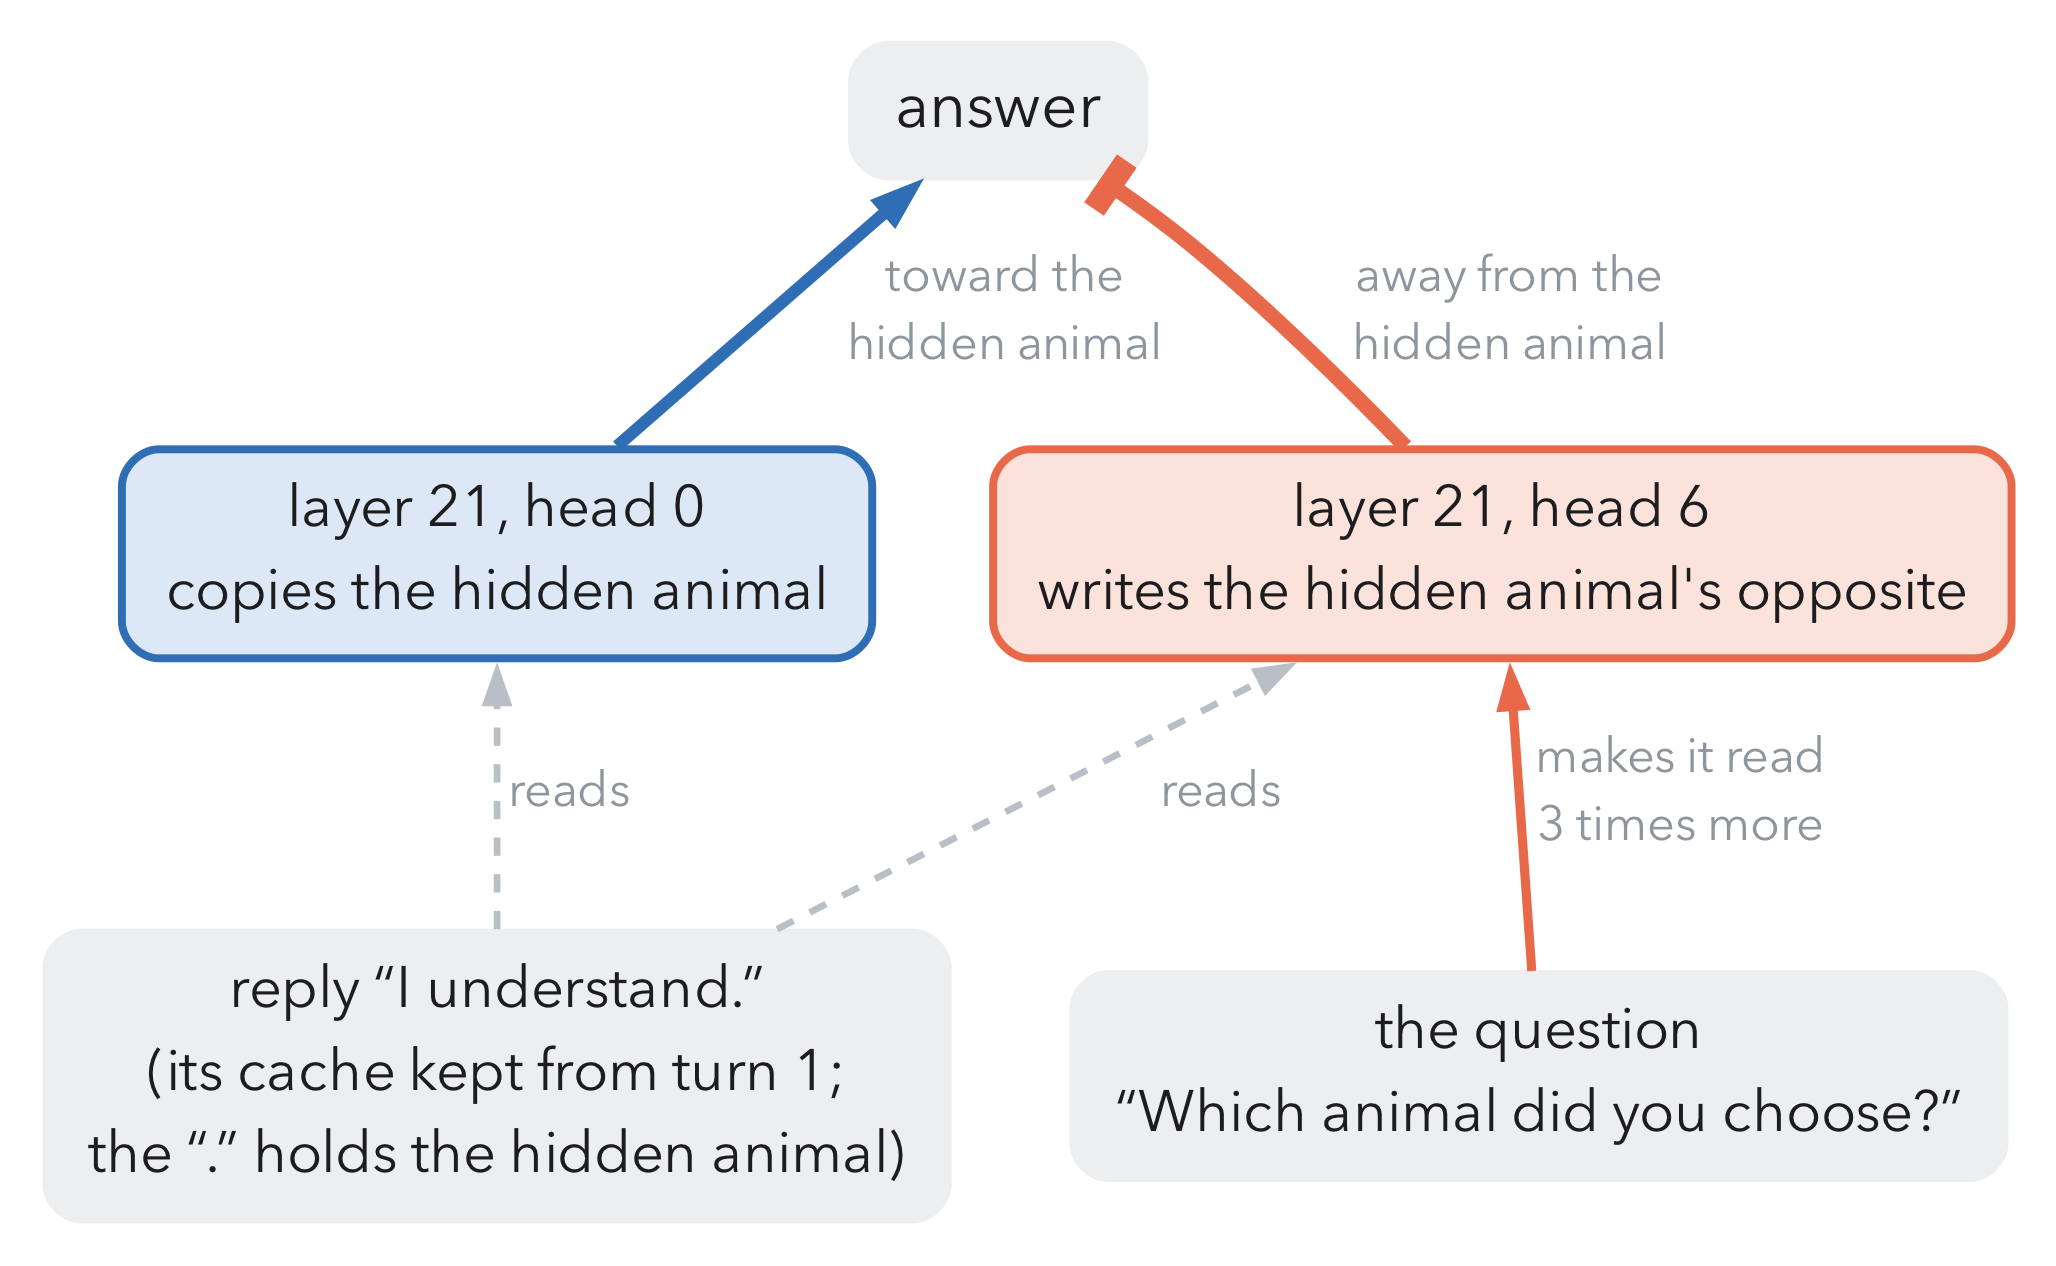
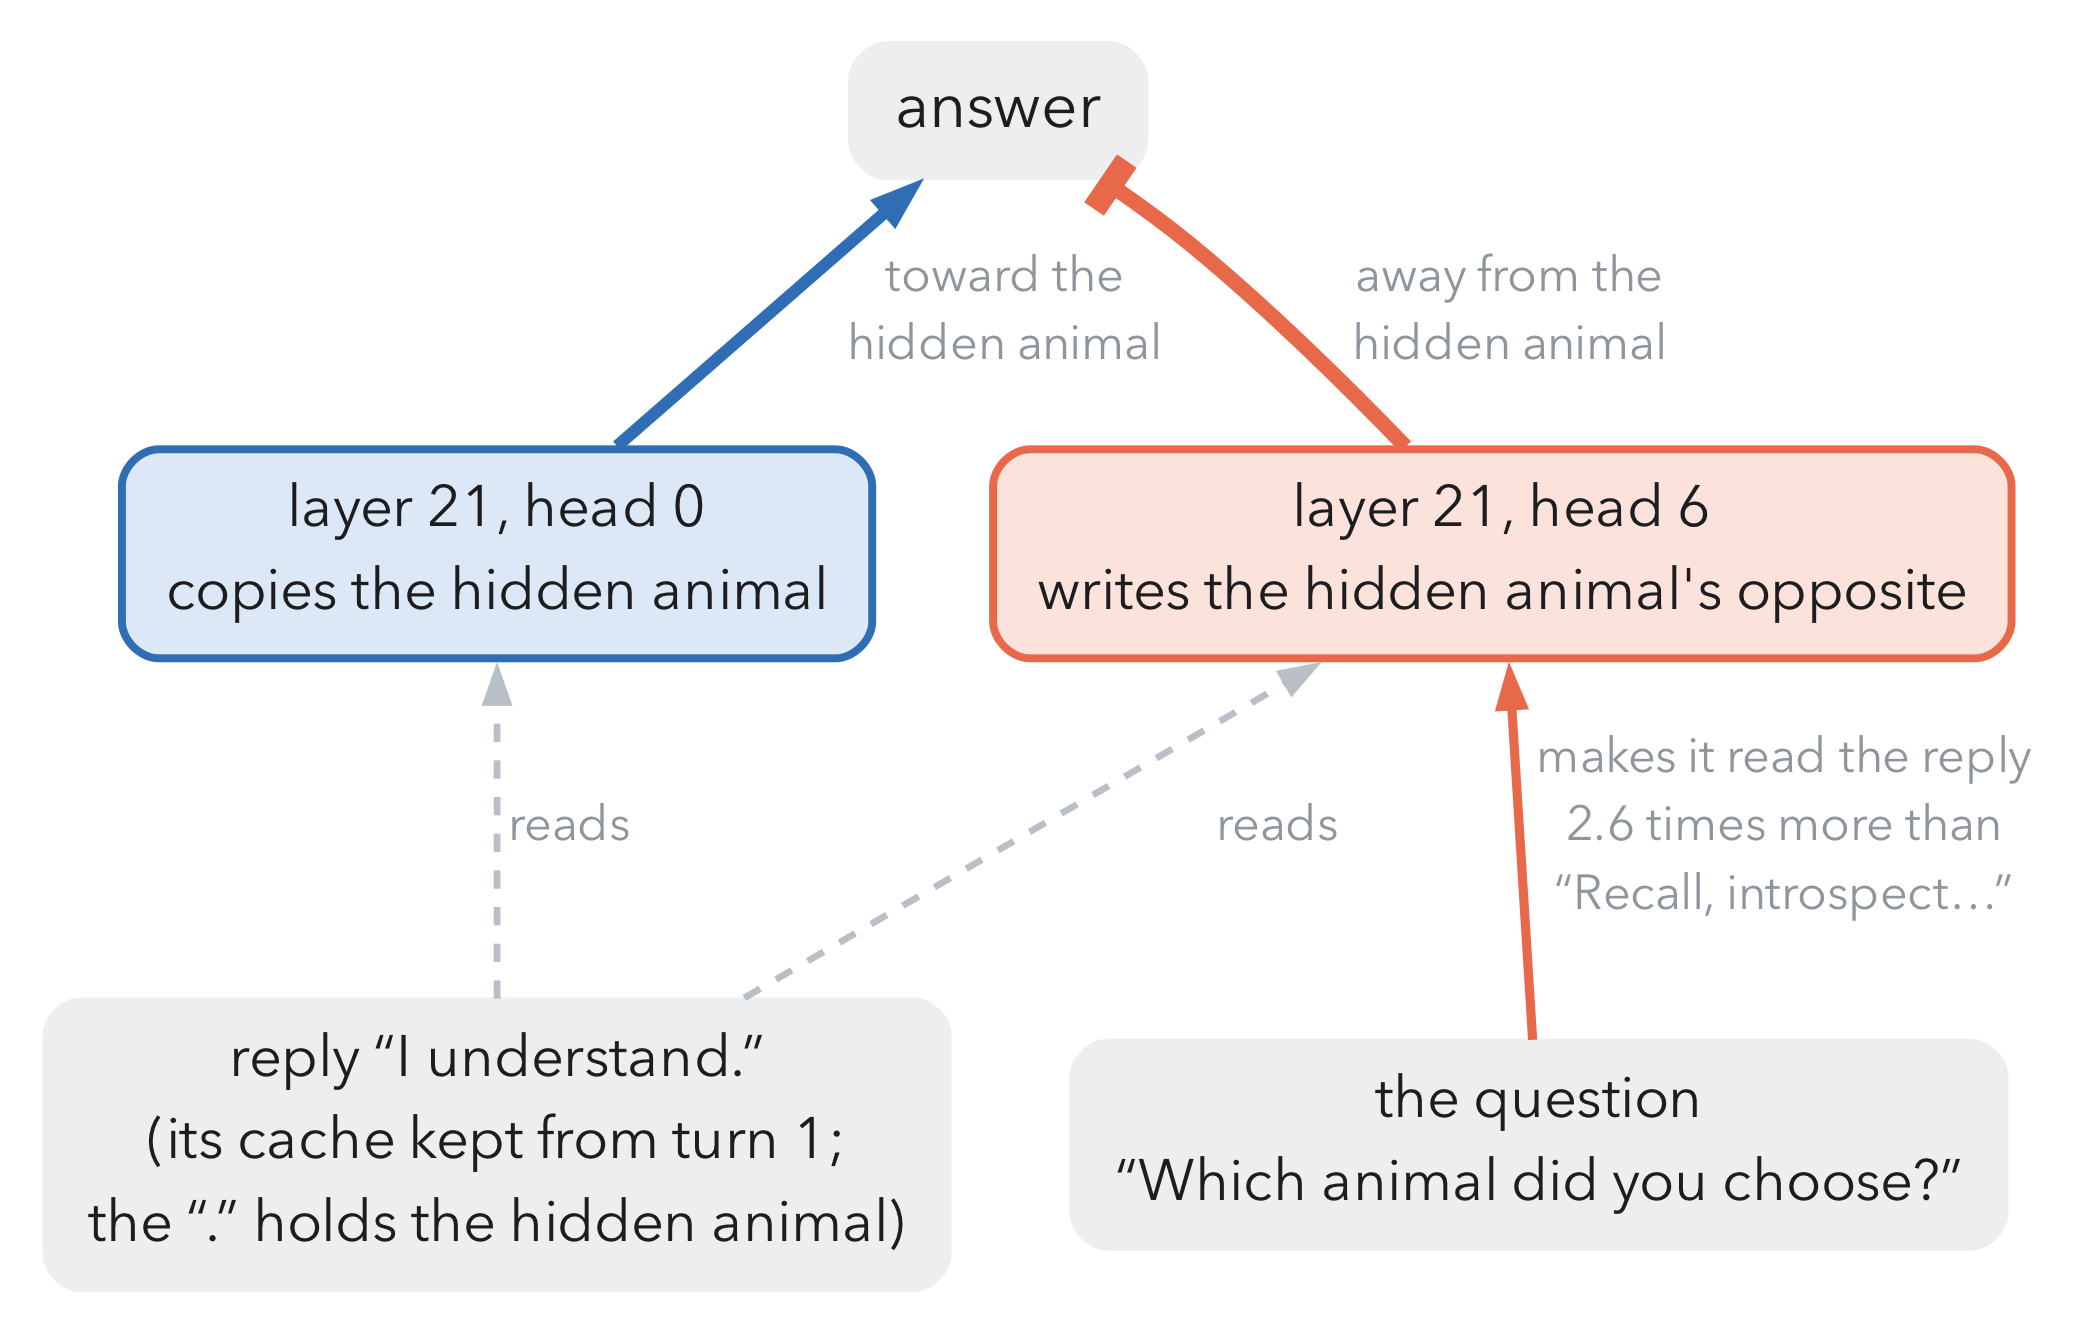
Figure review fixes: 4-layer circuit no longer draws two output subcomponents as heads 2.3/3.4/3.5's outputs (they mostly carry head 2 of each layer); bundle labels as layout nodes; 'cue' renamed to where the word is recalled; head 21.6's attention ratio measured per run in the kept-cache condition 

diff --git a/circuit_dot.py b/circuit_dot.py
@@ -1,27 +1,24 @@
 """Circuit diagrams of Goodfire's 4-layer model laid out by Graphviz (dot), for figure_main.py.
 
 gates_dot: the recall circuit as parts and wires: the two attention steps (head 2.3 copies the word into the later
-  tokens; heads 3.4 and 3.5 read them at the cue) and the VPD subcomponents measured to switch them on or off
+  tokens; heads 3.4 and 3.5 read them where the word is recalled) and the VPD subcomponents measured to switch them on or off
   (fourlayer/attention_gates.py, fourlayer/subcomponent_circuit.py).
-graph_dot: the circuit with VPD subcomponents as the only nodes, one rank per layer and matrix, links measured by
-  removing one subcomponent and recording the change in a later one (subcomponent_circuit.py --nodes).
 render(dot, path): dot -> PNG at the given resolution; returns the image array.
 """
-import os
 import subprocess
 
 import matplotlib.image as mpimg
 
 BLUE, CORAL, INK, SLATE, CLOUD, PALE_BLUE, PALE_SLATE = "#2f6db5", "#e8684a", "#1d1d1f", "#8e959c", "#b9bfc6", "#dce8f6", "#eceef0"
 FONT = "Avenir Next"
-KIND = {"q_proj": "query", "k_proj": "key", "v_proj": "value", "o_proj": "attention output", "c_fc": "MLP in", "down_proj": "MLP out"}
-WHERE = {"frame": "the frame", "word": "the hidden word", "later": "the later tokens", "cue": "the cue"}
+DOT = "/opt/homebrew/bin/dot"
 
 
 def render(dot, path, dpi=220):
+    """dot -> PNG; returns the image array."""
     with open(path + ".dot", "w") as f:
         f.write(dot)
-    subprocess.run(["/opt/homebrew/bin/dot", "-Tpng", f"-Gdpi={dpi}", "-o", path + ".png", path + ".dot"], check=True)
+    subprocess.run([DOT, "-Tpng", f"-Gdpi={dpi}", "-o", path + ".png", path + ".dot"], check=True)
     return mpimg.imread(path + ".png")
 
 
@@ -43,38 +40,35 @@ def gates_dot(g):
     head = f'style="rounded,filled,bold", fillcolor="{PALE_BLUE}", color="{BLUE}", fontcolor="{INK}", fontsize=33, penwidth=2.6'
 
     def bundle(a, b, label, k=10):
-        """Many thin wires: information carried by many subcomponents, none of them needed alone."""
-        wires = [f'  {a} -> {b} [color="{SLATE}", penwidth=0.9, arrowsize=0.55];' for _ in range(k - 1)]
-        wires.append(f'  {a} -> {b} [color="{SLATE}", penwidth=0.9, arrowsize=0.55, xlabel="{label}", fontcolor="{SLATE}"];')
+        """Many thin wires: information carried by many subcomponents, none of them needed alone.  The label is a node
+        between the two ends, so dot sets it beside the wires and keeps other nodes clear of it."""
+        wires = [f'  {a} -> {b} [color="{SLATE}", penwidth=0.9, arrowsize=0.55];' for _ in range(k)]
+        wires.append(f'  {a}_{b} [shape=plaintext, label="{label}", fontcolor="{SLATE}", fontsize=26, margin=0];')
+        wires.append(f'  {a} -> {a}_{b} -> {b} [style=invis, weight=3];')
         return "\n".join(wires)
     return f"""digraph G {{
-  rankdir=LR; splines=spline; nodesep=0.3; ranksep=0.45; bgcolor="white"; pad=0.1; forcelabels=true;
+  rankdir=LR; splines=spline; nodesep=0.3; ranksep=0.45; bgcolor="white"; pad=0.1;
   node [shape=box, fontname="{FONT}", fontsize=30, margin="0.18,0.1"];
   edge [fontname="{FONT}", fontsize=26, fontcolor="{SLATE}"];
   {{ rank=same; word [label="hidden word\n“otter”", {token}]; later [label="later tokens\n“. Nobody else knows.”", {token}];
-    cue [label="cue\n“My pet is a”", {token}]; }}
+    cue [label="where the word is recalled\n“My pet is a”", {token}]; }}
   {{ rank=same; k2 [label="layer 2 keys\nat the hidden word\n(2 subcomponents)", color="{BLUE}", fontcolor="{BLUE}", {part}];
     q2 [label="layer 2 query\nat the later tokens", color="{BLUE}", fontcolor="{BLUE}", {part}]; }}
   h2 [label="layer 2, head 3\ncopies the word\ninto the later tokens", {head}];
-  o2 [label="layer 2 attention output\nat the later tokens", color="{BLUE}", fontcolor="{BLUE}", {part}];
   {{ rank=same; k3 [label="layer 3 key\nat the later tokens", color="{BLUE}", fontcolor="{BLUE}", {part}];
-    q3 [label="layer 3 query\nat the cue", color="{BLUE}", fontcolor="{BLUE}", {part}];
-    b3 [label="layer 3 queries\nat the cue\n(2 subcomponents)", color="{CORAL}", fontcolor="{CORAL}", {part}]; }}
-  h3 [label="layer 3, heads 4 and 5\nread the later tokens\nat the cue", {head}];
-  o3 [label="layer 3 attention output\nat the cue", color="{BLUE}", fontcolor="{BLUE}", {part}];
+    q3 [label="layer 3 query\nwhere the word\nis recalled", color="{BLUE}", fontcolor="{BLUE}", {part}];
+    b3 [label="layer 3 queries\nwhere the word\nis recalled\n(2 subcomponents)", color="{CORAL}", fontcolor="{CORAL}", {part}]; }}
+  h3 [label="layer 3, heads 4 and 5\nread the later tokens\nwhere the word is recalled", {head}];
   answer [label="answer:\n“otter”", style="rounded,filled,bold", fillcolor="{PALE_SLATE}", color="{PALE_SLATE}", fontcolor="{INK}", fontsize=33];
-  word -> k2 [{info}]; later -> q2 [{info}]; cue -> q3 [{info}]; cue -> b3 [{info}];
+  word -> k2 [{info}]; later -> q2 [{info}]; later -> k3 [{info}]; cue -> q3 [{info}]; cue -> b3 [{info}];
 {bundle("word", "h2", "78 value\\nsubcomponents")}
   k2 -> h2 [{need(E("h.2.attn.k_proj#224@word", "h.2.attn.k_proj#206@word"))}];
   q2 -> h2 [{need(E("h.2.attn.q_proj#436@later"))}];
-  h2 -> o2 [{need(E("h.2.attn.o_proj#735@later"))}];
-  o2 -> k3 [{info}];
-{bundle("o2", "h3", "many value\\nsubcomponents")}
+{bundle("h2", "h3", "the copied word:\\nmany output and\\nvalue subcomponents")}
   k3 -> h3 [{need(E("h.3.attn.k_proj#145@later"))}];
   q3 -> h3 [{need(E("h.3.attn.q_proj#182@cue"))}];
   b3 -> h3 [{block(E("h.3.attn.q_proj#334@cue", "h.3.attn.q_proj#60@cue"))}];
-  h3 -> o3 [{need(E("h.3.attn.o_proj#806@cue"))}];
-  o3 -> answer [{need(2.0)}];
+{bundle("h3", "answer", "many output\\nsubcomponents")}
 }}
 """
 
@@ -95,43 +89,8 @@ def qwen_dot():
   answer [label="answer", style="rounded,filled,bold", fillcolor="{PALE_SLATE}", color="{PALE_SLATE}", fontcolor="{INK}", fontsize=21];
   reply -> h0 [color="{CLOUD}", style=dashed, penwidth=2.2, label=" reads"];
   reply -> h6 [color="{CLOUD}", style=dashed, penwidth=2.2, label=" reads"];
-  question -> h6 [color="{CORAL}", penwidth=3, label=" makes it read\n 3 times more"];
+  question -> h6 [color="{CORAL}", penwidth=3, label=" makes it read the reply\n 2.6 times more than\n “Recall, introspect…”"];
   h0 -> answer [color="{BLUE}", penwidth=4, label=" toward the\n hidden animal"];
   h6 -> answer [color="{CORAL}", penwidth=5, arrowhead=tee, arrowsize=1.4, label=" away from the\n hidden animal"];
 }}
 """
-
-
-def graph_dot(c, min_edge=0.2):
-    base = 100 * c["recall"]
-    nodes = c["circuit"]
-    lost = {n: 100 * c["single"].get(n, 0.0) for n in nodes}
-    stage = {"q_proj": 0, "k_proj": 0, "v_proj": 0, "o_proj": 1, "c_fc": 2, "down_proj": 3}
-    rank = lambda n: 4 * int(n.split(".")[1]) + stage[n.split("#")[0].split(".")[-1]]
-    nid = {n: f"n{i}" for i, n in enumerate(nodes)}
-    lines = [f'digraph G {{ rankdir=BT; splines=spline; nodesep=0.3; ranksep=0.42; bgcolor="white"; pad=0.2; newrank=true;',
-             f'  node [shape=box, style="rounded,filled", fontname="{FONT}", fontsize=17, margin="0.14,0.06", penwidth=0];',
-             f'  edge [arrowsize=0.9];']
-    ranks = sorted({rank(n) for n in nodes})
-    names = {0: "query / key / value", 1: "attention output", 2: "MLP in", 3: "MLP out"}
-    for r in ranks:
-        members = [n for n in nodes if rank(n) == r]
-        row = f'  {{ rank=same; r{r} [label="layer {r // 4}\\n{names[r % 4]}", shape=plaintext, style="", fontcolor="{SLATE}", fontsize=16];'
-        for n in sorted(members, key=lambda n: list(WHERE).index(n.split("@")[1])):
-            site, rest = n.split("#")
-            idx, cls = rest.split("@")
-            d = lost[n]
-            col, fill = (BLUE, PALE_BLUE) if d > 0 else ("#c9512f", "#fbe3dc")
-            row += (f' {nid[n]} [label="at {WHERE[cls]}", fillcolor="{fill}", '
-                    f'fontcolor="{col}", fontsize={15 + min(8, 1.2 * abs(d)):.0f}];')
-        lines.append(row + " }")
-    for a, b in zip(ranks, ranks[1:]):
-        lines.append(f"  r{a} -> r{b} [style=invis];")
-    for e, v in sorted(c["edges"].items(), key=lambda kv: abs(kv[1])):
-        src, dst = e.split(" -> ")
-        if abs(v) < min_edge or src not in nid or dst not in nid:
-            continue
-        col = BLUE if v < 0 else CORAL
-        lines.append(f'  {nid[src]} -> {nid[dst]} [color="{col}", penwidth={0.8 + 3.2 * min(abs(v), 1.0):.2f}];')
-    lines.append("}")
-    return "\n".join(lines)

diff --git a/figure_main.py b/figure_main.py
@@ -210,7 +210,7 @@ def row_experiment(cv, paths, y0, text4l=None):
             lim4, ticks4, pv4 = specs4[name]
             strip(ax4, text4l, name, lim4, ticks4, pv4)
             if name == "visible":
-                ax4.set_xticks(range(len(text4l)), ["unedited", "key #224\n×8"][:len(text4l)], fontsize=20)
+                ax4.set_xticks(range(len(text4l)), [""] * len(text4l), fontsize=20)
                 ax4.set_xlabel("Goodfire 4-layer", fontsize=23, labelpad=6)
         ax = cv.axes(16.2, y - 0.55, 7.4, h + 1.1)
         lim, ticks, pv = specs[name]
@@ -365,23 +365,24 @@ def row_head(cv, y0, flip_groups, npz):
     ax.set_ylabel("hidden animal ranked above\nanother animal (%)")
 
     cv.letter(19.0, top - 0.75, "e")
-    cv.S.text(19.8, top - 0.75, "Janus's LLM explainer before the question:\nraises introspection in Qwen3-1.7B,\nlowers it in Qwen3-0.6B",
+    cv.S.text(19.8, top - 0.75, "Janus's LLM explainer before the question:\nraises recall of the hidden animal in\nQwen3-1.7B, lowers it in Qwen3-0.6B",
               fontsize=25, weight="bold", va="center", linespacing=1.15)
     paired_legend(cv, 20.0, top - 2.35, "question alone", "Janus's LLM explainer, then the question")
     other = "results/q06A/q06A_questions.npz"
     qs = [(npz, "retained", "doc_A", "1.7B:\n\u201cWhich\nanimal\u2026?\u201d"), (npz, "recall_B", "doc_B", "1.7B:\n\u201cRecall,\nintrospect\u2026\u201d"),
           (npz, "neutral", "doc_neutral", "1.7B, control:\n\u201cName any\nanimal\u201d"), (other, "retained", "doc_A", "0.6B:\n\u201cWhich\nanimal\u2026?\u201d")]
     qs = [q for q in qs if saved_logp(q[0], f"none|{q[2]}")[0] is not None]
-    ax = cv.axes(20.9, y0 + 2.6, 6.1, 5.9)
+    ax = cv.axes(20.9, y0 + 2.6, 5.75, 5.9)
     panel_paired(ax, [(saved_logp(sp, f"none|{q0}")[0], saved_logp(sp, f"none|{q1}")[0], saved_logp(sp, f"none|{q0}")[1])
                       for sp, q0, q1, _ in qs], (15, 102))
     ax.set_xticks([3 * k + 0.6 for k in range(len(qs))], [lab for *_, lab in qs], fontsize=16)
     ax.set_ylabel("hidden animal ranked above\nanother animal (%)")
     ax.tick_params(axis="x", length=0)
     ax.set_yticks([30, 50, 70, 90])
-    cb = cv.fig.colorbar(matplotlib.cm.ScalarMappable(norm=FC_NORM, cmap=FC_CMAP), cax=cv.axes(27.15, y0 + 2.6, 0.2, 5.9))
-    cb.set_label("log2 fold change of each line (d, e)", fontsize=16)
-    cb.ax.tick_params(labelsize=14)
+    cb = cv.fig.colorbar(matplotlib.cm.ScalarMappable(norm=FC_NORM, cmap=FC_CMAP), cax=cv.axes(26.8, y0 + 2.6, 0.2, 5.9))
+    cb.set_ticks([-1, 0, 1], labels=["½×", "1×", "2×"])
+    cb.set_label("change per line (d, e)", fontsize=16, labelpad=2)
+    cb.ax.tick_params(labelsize=17)
     cb.outline.set_visible(False)
 
 
@@ -406,7 +407,7 @@ def row_fourlayer(cv, refits, y0):
                   for o in json.load(open(path)).get("optimized", []))
     base = 100 * json.load(open(refits[0]))["unedited"]["discrimination"]
     cv.letter(13.4, top - 0.75, "g")
-    cv.S.text(14.2, top - 0.75, "Goodfire 4-layer model: rescaling a few of its 9,728 VPD\nsubcomponents (rank-one parts of the weights) raises recall",
+    cv.S.text(14.2, top - 0.75, "Goodfire 4-layer model: rescaling about 50 VPD subcomponents\n(rank-one parts of the weights) raises recall from 64% to 97%",
               fontsize=25, weight="bold", va="center", linespacing=1.15)
     ax = cv.axes(16.0, y0 + 1.7, 8.6, 6.9)
     ks = [k for k, _ in rows]
@@ -425,7 +426,7 @@ def row_fourlayer(cv, refits, y0):
     ax.set_xscale("log")
     ax.set_xticks([1, 10, 100, 1000], ["1", "10", "100", "1,000"])
     ax.set_ylim(45, 102)
-    ax.set_xlabel("number of subcomponents rescaled")
+    ax.set_xlabel("number of subcomponents rescaled (of 9,728 searched)")
     ax.set_ylabel("hidden word ranked above\nanother word (%)\non held-out sentences")
 
 
